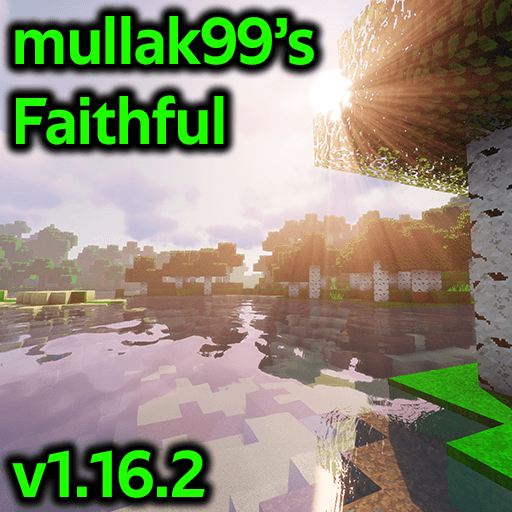
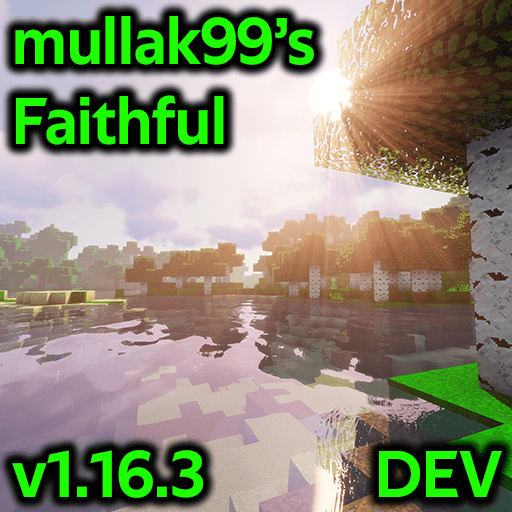
Updated fonts
- Updated fonts

Changed region(s): [[0.7188, 0.8438, 1.0, 1.0], [0.3438, 0.875, 0.4375, 1.0]]

diff --git a/README.md b/README.md
@@ -1,6 +1,6 @@
 # mullak99's Faithful 32x
 
-**Current Branch Version:** _v1.16.2_  
+**Current Branch Version:** _v1.16.3-DEV200707-1_  
 
 ## Branch Breakdown
 
